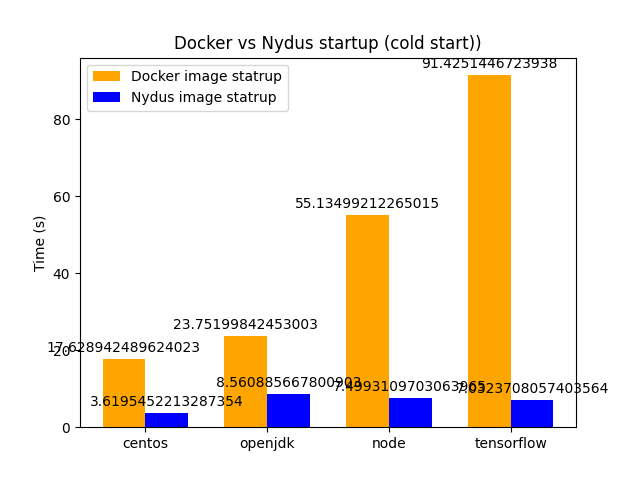
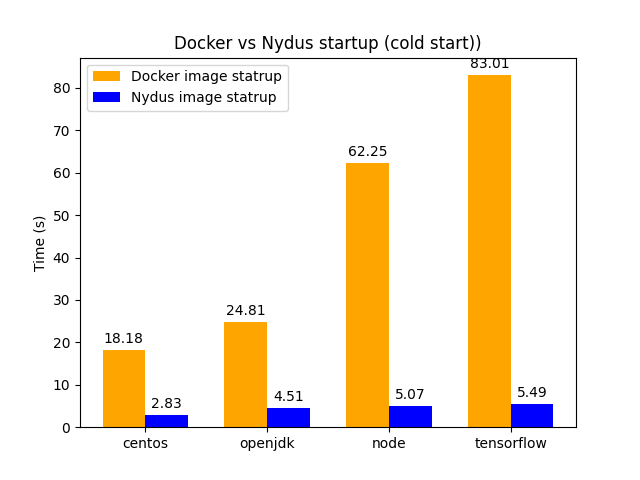
float fix

diff --git a/tasks/container_startup.py b/tasks/container_startup.py
@@ -66,7 +66,7 @@ def create_plot(duration_pairs: dict):
     def add_labels(bars):
         for bar in bars:
             height = bar.get_height()
-            plt.annotate('{}'.format(height),
+            plt.annotate('{:.2f}'.format(height),
                          xy=(bar.get_x() + bar.get_width() / 2, height),
                          xytext=(0, 3),
                          textcoords="offset points",
